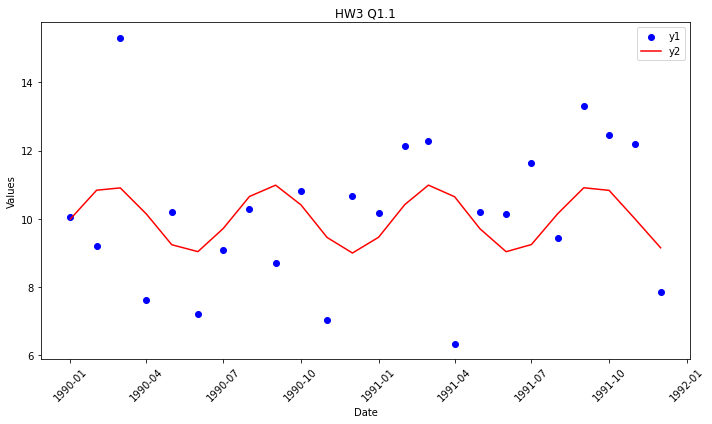
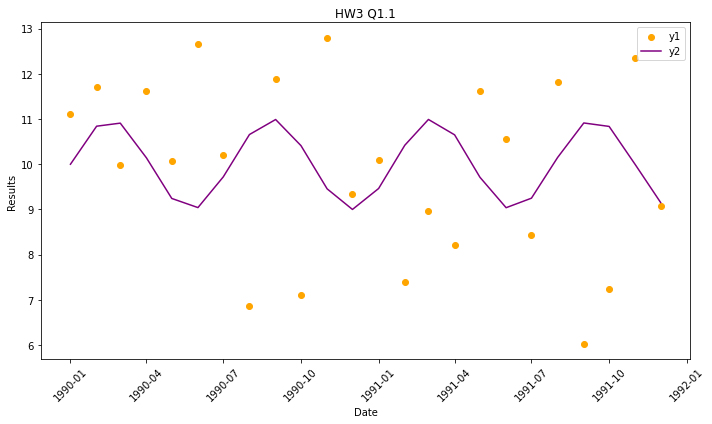
Summary

diff --git a/HW3 (Updated).py b/HW3 (Updated).py
@@ -36,11 +36,11 @@ y2 = [np.sin(v)+10 for v in range(len(x))]
 
 # Question 1.1
 plt.figure(figsize=(10, 6))
-plt.scatter(x, y1, label='y1', color='blue')
-plt.plot(x, y2, label='y2', color='red')
+plt.scatter(x, y1, label='y1', color='orange')
+plt.plot(x, y2, label='y2', color='purple')
 plt.title('HW3 Q1.1')
 plt.xlabel('Date')
-plt.ylabel('Values')
+plt.ylabel('Results')
 plt.legend()
 plt.xticks(rotation=45)
 plt.tight_layout()
@@ -51,11 +51,11 @@ plt.savefig('q1_1_plot.png')
 # question_2_figure.png.
 
 plt.figure(figsize=(8, 6))
-plt.plot(x, y1, label='y1', color='blue')
-plt.plot(x, y2, label='y2', color='red')
+plt.plot(x, y1, label='y1', color='orange')
+plt.plot(x, y2, label='y2', color='green')
 plt.title('HW3 Q1.2')
 plt.xlabel('Date')
-plt.ylabel('Values')
+plt.ylabel('Results')
 plt.legend()
 plt.xticks(rotation=45)
 plt.tight_layout()
@@ -73,30 +73,30 @@ import pandas as pd
 import matplotlib.pyplot as plt
 
 
-# Load the dataset
+# Loading the dataset
 mpg_data = pd.read_csv(r'C:\Users\arifm\OneDrive\Documents\GitHub\HW3\mpg.csv')
 
-# Plotting
+# Plotting the figure
 plt.figure(figsize=(18, 6))
 
-# Plot 1: mpg vs. displacement
+# Plot 1: mpg versus displacement
 plt.subplot(1, 3, 1)
 plt.scatter(mpg_data['displacement'], mpg_data['mpg'], alpha=0.7)
-plt.title('MPG vs. Displacement')
+plt.title('MPG & Displacement')
 plt.xlabel('Displacement')
 plt.ylabel('MPG')
 plt.savefig('question_1_3a_figure.png')
-# Plot 2: mpg vs. horsepower
+# Plot 2: mpg versus horsepower
 plt.subplot(1, 3, 2)
 plt.scatter(mpg_data['horsepower'], mpg_data['mpg'], alpha=0.7)
-plt.title('MPG vs. Horsepower')
+plt.title('MPG & Horsepower')
 plt.xlabel('Horsepower')
 plt.ylabel('MPG')
 plt.savefig('question_1_3b_figure.png')
-# Plot 3: mpg vs. weight
+# Plot 3: mpg versus weight
 plt.subplot(1, 3, 3)
 plt.scatter(mpg_data['weight'], mpg_data['mpg'], alpha=0.7)
-plt.title('MPG vs. Weight')
+plt.title('MPG & Weight')
 plt.xlabel('Weight')
 plt.ylabel('MPG')
 plt.tight_layout()
@@ -110,20 +110,20 @@ plt.savefig('question_1_3c_figure.png')
 # up the y-axis.
 
 import seaborn as sns
-
-# Plotting mpg vs. cylinders using scatter plot
+# Plotting mpg versus cylinders using scatterplot
 plt.figure(figsize=(8, 6))
 plt.scatter(mpg_data['cylinders'], mpg_data['mpg'])
-plt.title('MPG vs. Cylinders')
+plt.title('MPG & Cylinders')
 plt.xlabel('Cylinders')
 plt.ylabel('MPG')
 plt.show()
 plt.savefig('question_1_4a_figure.png')
+#The plot lacks any clarity to show any trend or pattern which makes it challenging to differentiate between individual data points ##
 
 # Plotting box plot using Seaborn
 plt.figure(figsize=(8, 6))
 sns.boxplot(x='cylinders', y='mpg', data=mpg_data)
-plt.title('MPG Distribution Across Cylinders')
+plt.title('MPG Distribution of the Cylinders')
 plt.xlabel('Cylinders')
 plt.ylabel('MPG')
 plt.show()
@@ -183,7 +183,7 @@ plt.show()
 # Plotting box plot using Seaborn
 plt.figure(figsize=(8, 6))
 sns.boxplot(x='origin', y='mpg', data=mpg_data)
-plt.title('Fuel Efficiency Across Regions')
+plt.title('Fuel Efficiency Across Countries')
 plt.xlabel('Region')
 plt.ylabel('MPG')
 plt.show()
@@ -197,7 +197,7 @@ plt.savefig('question_1_6_figure.png')
 # Plotting scatter plot using Seaborn
 plt.figure(figsize=(10, 6))
 sns.scatterplot(x='displacement', y='mpg', hue='origin', data=mpg_data)
-plt.title('MPG vs. Displacement by Origin')
+plt.title('MPG versus Displacement by Country of Origin')
 plt.xlabel('Displacement')
 plt.ylabel('MPG')
 plt.legend(title='Origin')
@@ -219,60 +219,72 @@ epu_data.columns = epu_data.columns.str.lower()  #converting column name to lowe
 
 #creating function to convert state name to abrev
 import us
-def state_name_to_abbrev(state_name):
+def state_abbrev(state_fullname):
     try:
-        state = us.states.lookup(state_name)
+        state = us.states.lookup(state_fullname)
         if state:
             return state.abbr
         else:
             return None
     except ValueError:
         return None
-epu_data['state'] = epu_data['state'].apply(state_name_to_abbrev)
+epu_data['state'] = epu_data['state'].apply(state_abbrev)
 
-#from month year to date format
-epu_data['date'] = pd.to_datetime(epu_data[['year', 'month']].assign(day=1)) #converting to same date format
-epu_data.drop(['year', 'month'], axis=1, inplace=True) #droping those columns as no use
+# converting from month year to date format of epu dataframe and converting to same date format
+epu_data['date'] = pd.to_datetime(epu_data[['year', 'month']].assign(day=1)) 
+
 epu_data['date'] = epu_data['date'].dt.strftime('%Y-%m-%d') #same date format
 
-
 # Merging dataframes "Unemployment" & "Policy Uncertainty"
-merged_data = pd.merge(unemp_data, epu_data, on='state', how='inner')
-print(merged_data.columns)
+data_ump_epu = pd.merge(unemp_data, epu_data, on='state', how='inner')
+print(data_ump_epu.columns)
 
 #    2.2: Calculate the log-first-difference (LFD) of the EPU-C data
 import pandas as pd
 import statsmodels.api as sm
-merged_data['LFD_EPU_C'] = merged_data['epu_composite'].diff().apply(lambda x: x / merged_data['epu_composite'].shift(1))
-merged_data.dropna(inplace=True)
+data_ump_epu['LFD_EPU_C'] = data_ump_epu['epu_composite'].diff().apply(lambda x: x / data_ump_epu['epu_composite'].shift(1))
+data_ump_epu.dropna(inplace=True)
 
 #    2.2: Select five states and create one Matplotlib figure that shows the unemployment rate
 #         and the LFD of EPU-C over time for each state. Save the figure and commit it with 
 #         your code.
-selected_states = ['California', 'Texas', 'New York', 'Florida', 'Illinois']
-state_data = merged_data[merged_data['state'].isin(selected_states)]
-print(state_data.columns)
+five_states = ['California', 'Louisiana', 'New York', 'Maine', 'Illinois']
 
-# Check for missing values in 'LFD_EPU_C' and 'unemp_rate' columns
-print("Missing values in 'LFD_EPU_C':", state_data['LFD_EPU_C'].isnull().sum())
-print("Missing values in 'unemp_rate':", state_data['unemp_rate'].isnull().sum())
+emp_lfd_state_data = data_ump_epu[data_ump_epu['state'].isin(five_states)]
+print(emp_lfd_state_data.columns)
 
-# Drop rows with missing values
-state_data.dropna(subset=['LFD_EPU_C', 'unemp_rate'], inplace=True)
+##creating a plot
+plt.figure(figsize=(12, 8))
+for state in five_states:
+    state_subset = data_ump_epu[data_ump_epu['state'] == state]
+    plt.plot(state_subset['date_y'], state_subset['unemp_rate'], label=f'{state} Unemployment Rate')
+    plt.plot(state_subset['date_y'], state_subset['LFD_EPU_C'], label=f'{state} LFD EPU-C')
+plt.title('Unemployment Rate and LFD of EPU-C Over Time for the five US States')
+plt.xlabel('Date')
+plt.ylabel('Value')
+plt.legend()
+plt.xticks(rotation=45)
+plt.tight_layout()
+plt.savefig('unemp_epu_plot.png')
+plt.show()
 
 #    2.3: Using statsmodels, regress the unemployment rate on the LFD of EPU-C and fixed
 #         effects for states. Include an intercept.
+
 # Using statsmodels, regress the unemployment rate on the LFD of EPU-C and fixed effects for states
-X = sm.add_constant(state_data['LFD_EPU_C'])
-y = state_data['unemp_rate']
-model = sm.OLS(y, X)
-results = model.fit()
+
+X = sm.add_constant(emp_lfd_state_data['LFD_EPU_C']) #adding an X intercept
+y = emp_lfd_state_data['unemp_rate']
+ols_model = sm.OLS(y, X)
+reg_results = ols_model.fit()
+print(reg_results.summary())
 
 #    2.4: Print the summary of the results, and write a 1-3 line comment explaining the basic
 #         interpretation of the results (e.g. coefficient, p-value, r-squared), the way you 
 #         might in an abstract.
 
 # Results summary
-print(results.summary())
+# Overall there is a negative correlation of 
+#An increase in unmployment rate bt 1% de
 
 
